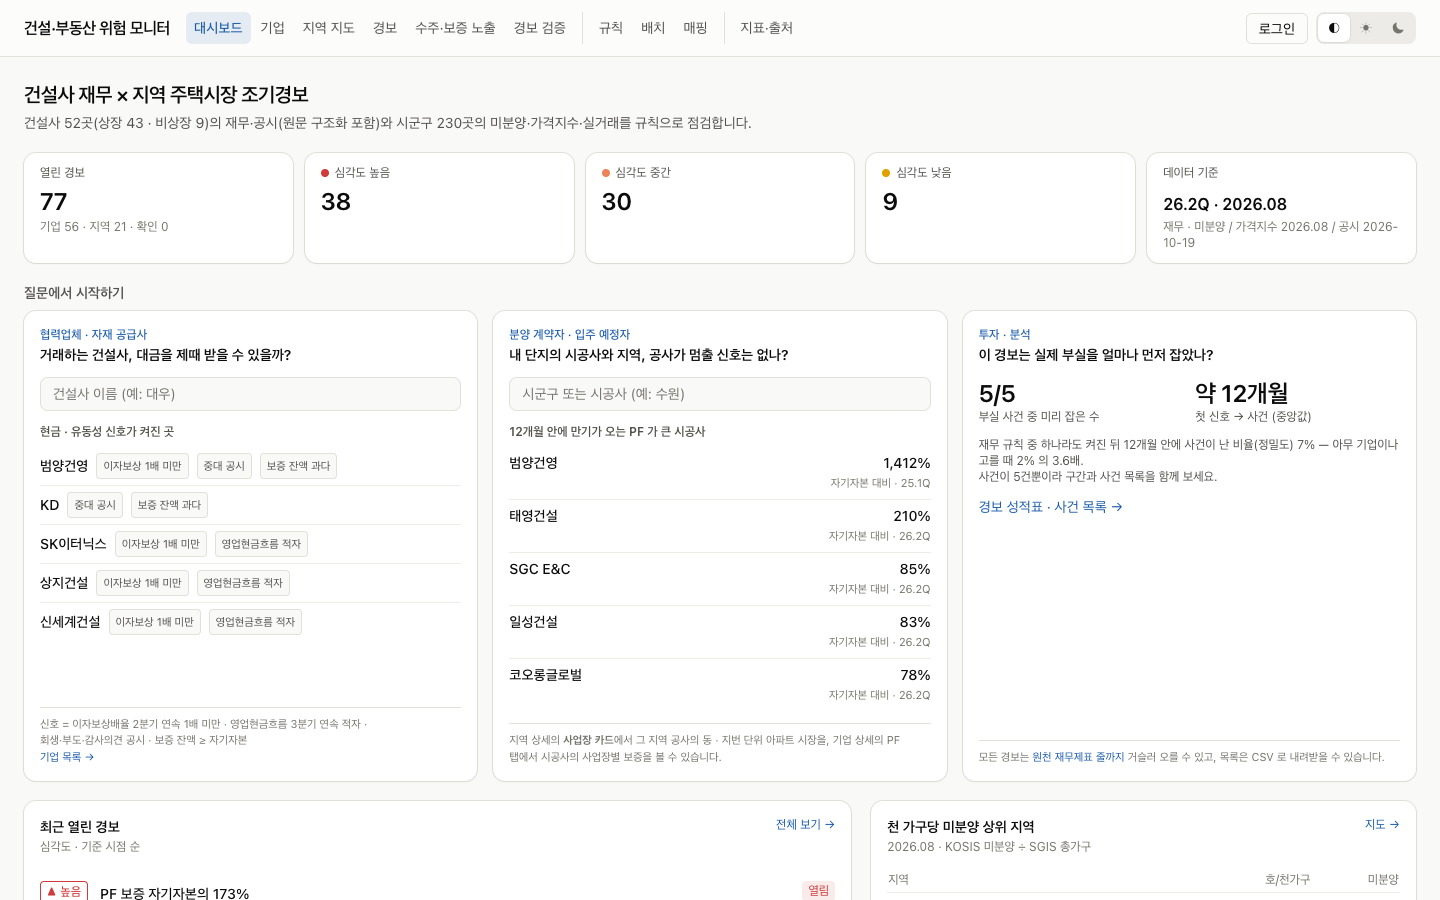
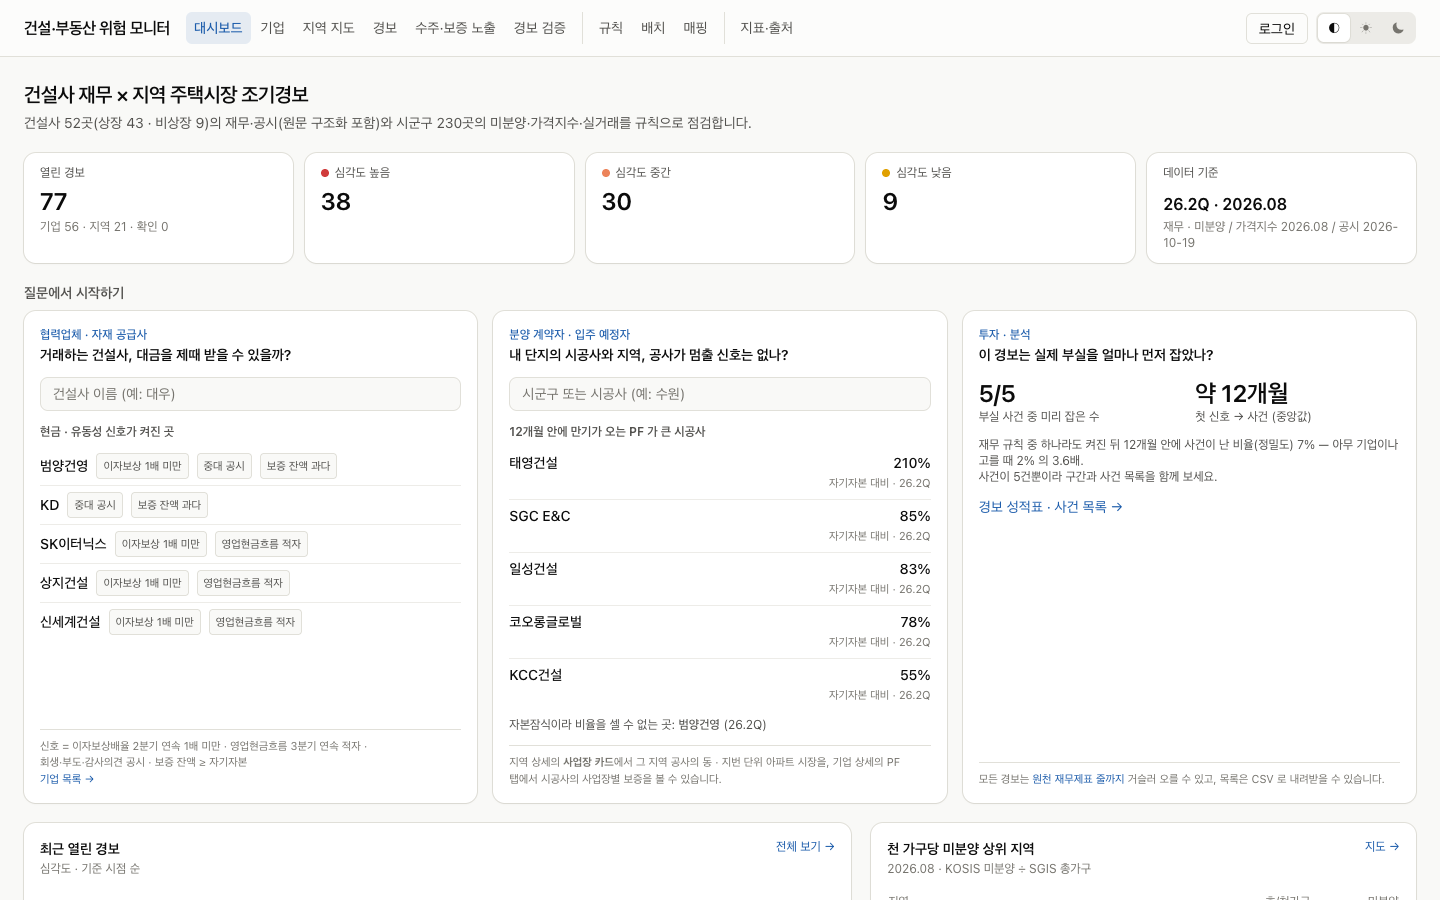
fix(insight): 대시보드 분양 계약자 카드 — 가장 최근 정기보고서의 값만, 자본잠식은 따로 (문제 221)
OK 만 남긴 뒤 회사마다 최신 분기를 골라, 2025Q2 부터 자본잠식인 범양건영의 2025Q1 1,412% 가
맨 위에 보였음. PF 를 읽은 가장 최근 정기보고서(dart.pf_report)의 분기를 먼저 고르고 그 분기가
OK 일 때만 순위에 넣음. NEG_EQUITY 는 personas.buyerNegEquity 로 순위 밖에 따로(사용자 결정).
DashboardIT 회귀 테스트(수정 전 실패) · VERIFICATION 221 · README 숫자 · 대시보드 캡처.

diff --git a/web/components/PersonaEntry.tsx b/web/components/PersonaEntry.tsx
@@ -57,6 +57,12 @@ export default function PersonaEntry({ p }: { p: Personas }) {
                     <span className="block text-[11px] text-muted">자기자본 대비 · {pk(b.periodKey)}</span></span>
                 </li>))}</ul>
             )}
+            {(p.buyerNegEquity ?? []).length > 0 && (
+              <p className="mt-1.5 text-xs text-ink2">자본잠식이라 비율을 셀 수 없는 곳:{" "}
+                <PhraseList items={(p.buyerNegEquity ?? []).map((n) => (
+                  <span key={n.corpCode}><Link href={`/companies/${n.corpCode}?tab=filings`} className="font-medium hover:underline">{n.corpName}</Link> ({pk(n.periodKey)})</span>
+                ))} /></p>
+            )}
           </div>
         </Persona>
 

diff --git a/web/lib/api/types.ts b/web/lib/api/types.ts
@@ -192,6 +192,8 @@ export type Scorecard = {
 export type Personas = {
   supplier: { corpCode: string; corpName: string; rules: string[]; sevRank: number }[];
   buyer: { corpCode: string; corpName: string; periodKey: string; due12mToEquityPct?: number; guaranteeToEquityPct?: number }[];
+  /** 가장 최근 정기보고서가 자본잠식이라 비율을 셀 수 없는 시공사 */
+  buyerNegEquity?: { corpCode: string; corpName: string; periodKey: string }[];
   investor?: { horizonMonths: number; observedFrom: string; observedTo: string; events: number; caught: number; medianLeadDays?: number; precision?: number; baseRate?: number; lift?: number };
 };
 export type SearchHit = { key: string; name: string; sub?: string };

diff --git a/app/src/main/java/com/buildrisk/radar/insight/app/DashboardService.java b/app/src/main/java/com/buildrisk/radar/insight/app/DashboardService.java
@@ -95,11 +95,28 @@ public class DashboardService {
     public record ScoreSummary(int horizonMonths, String observedFrom, String observedTo, int events, int caught,
                                Integer medianLeadDays, Double precision, Double baseRate, Double lift) {}
 
-    public record Personas(List<SupplierSignal> supplier, List<BuilderPf> buyer, ScoreSummary investor) {}
+    /** 가장 최근 정기보고서가 자본잠식이라 12개월 내 만기 PF / 자기자본을 셀 수 없는 시공사 */
+    public record BuilderNegEquity(String corpCode, String corpName, String periodKey) {}
+
+    public record Personas(List<SupplierSignal> supplier, List<BuilderPf> buyer, List<BuilderNegEquity> buyerNegEquity,
+                           ScoreSummary investor) {}
+
+    /**
+     * 기업마다 가장 최근 정기보고서(PF 를 읽은 보고서 — 상태와 관계없이)의 12개월 내 만기 PF / 자기자본. 그 분기가 OK 가 아니면
+     * (자본잠식 · 표준 서식 아님 · 만기 구간 모름) 옛 분기 값으로 메우지 않음 — 전에는 OK 만 남긴 뒤 최신을 골라 자본잠식 기업의
+     * 옛 분기 비율이 맨 위에 보였음 (VERIFICATION 221)
+     */
+    static final String LATEST_PF_DUE = """
+            WITH r AS (SELECT corp_code, max(period_key) AS period_key FROM dart.pf_report GROUP BY corp_code),
+            d AS (SELECT m.corp_code, m.period_key, m.value, m.status
+                    FROM r JOIN risk.company_metric m ON m.corp_code = r.corp_code AND m.period_key = r.period_key
+                   WHERE m.metric_code = 'PF_DUE_12M_TO_EQUITY')
+            """;
 
     /**
      * 사용자별 진입점 — 같은 데이터를 질문별로 모음 (새 계산 없음).
-     *   협력업체: 현금 · 유동성 규칙의 열린 경보가 겹치는 기업 · 분양 계약자: 시공사의 12개월 내 만기 PF / 자기자본(가장 최근 정기보고서)
+     *   협력업체: 현금 · 유동성 규칙의 열린 경보가 겹치는 기업 · 분양 계약자: 시공사의 12개월 내 만기 PF / 자기자본(가장 최근 정기보고서),
+     *   그 보고서가 자본잠식이라 비율이 없는 시공사는 순위 밖에 따로
      *   투자 · 분석: 경보 성적표 12개월의 '재무 규칙 중 하나라도' 요약 (성적표 API 와 같은 캐시)
      */
     Personas personas() {
@@ -113,21 +130,24 @@ public class DashboardService {
                 .param("rules", SUPPLIER_RULES)
                 .query((rs, i) -> new SupplierSignal(rs.getString(1), rs.getString(2),
                         Arrays.asList((String[]) rs.getArray(3).getArray()), rs.getInt(4))).list();
-        List<BuilderPf> buyer = jdbc.sql("""
-                WITH d AS (SELECT DISTINCT ON (corp_code) corp_code, period_key, value FROM risk.company_metric
-                            WHERE metric_code = 'PF_DUE_12M_TO_EQUITY' AND status = 'OK' ORDER BY corp_code, period_key DESC)
+        List<BuilderPf> buyer = jdbc.sql(LATEST_PF_DUE + """
                 SELECT d.corp_code, c.corp_name, d.period_key, d.value, g.value
                   FROM d JOIN ref.company c ON c.corp_code = d.corp_code
                   LEFT JOIN risk.company_metric g ON g.corp_code = d.corp_code AND g.period_key = d.period_key
                        AND g.metric_code = 'PF_GUARANTEE_TO_EQUITY' AND g.status = 'OK'
-                 WHERE c.is_target ORDER BY d.value DESC, c.corp_name LIMIT 5""")
+                 WHERE c.is_target AND d.status = 'OK' ORDER BY d.value DESC, c.corp_name LIMIT 5""")
                 .query((rs, i) -> new BuilderPf(rs.getString(1), rs.getString(2), rs.getString(3), rs.getBigDecimal(4),
                         rs.getBigDecimal(5))).list();
+        List<BuilderNegEquity> buyerNegEquity = jdbc.sql(LATEST_PF_DUE + """
+                SELECT d.corp_code, c.corp_name, d.period_key
+                  FROM d JOIN ref.company c ON c.corp_code = d.corp_code
+                 WHERE c.is_target AND d.status = 'NEG_EQUITY' ORDER BY c.corp_name""")
+                .query((rs, i) -> new BuilderNegEquity(rs.getString(1), rs.getString(2), rs.getString(3))).list();
         var sc = cache.get(ScorecardService.cacheKey(12), Duration.ofMinutes(30), ScorecardService.Response.class, () -> scorecard.run(12));
         ScoreSummary investor = sc.rules().stream().filter(r -> Scorecard.ANY.equals(r.ruleCode())).findFirst()
                 .map(r -> new ScoreSummary(sc.horizonMonths(), sc.observedFrom(), sc.observedTo(), r.events(), r.caught(),
                         r.medianLeadDays(), r.precision(), sc.baseRate(), r.lift()))
                 .orElse(null);
-        return new Personas(supplier, buyer, investor);
+        return new Personas(supplier, buyer, buyerNegEquity, investor);
     }
 }

diff --git a/app/src/test/java/com/buildrisk/radar/insight/api/DashboardIT.java b/app/src/test/java/com/buildrisk/radar/insight/api/DashboardIT.java
@@ -40,6 +40,9 @@ class DashboardIT extends IntegrationTest {
         alert("R-C01", "00000963", "MEDIUM");                  // 현금 · 유동성 규칙이 아님 → 협력업체 목록에서 빠짐
         run = UUID.randomUUID();
         jdbc.update("INSERT INTO ops.calc_run (calc_run_id, kind) VALUES (?, 'METRIC')", run);
+        report("00000961", "2025Q4", "PARSED");
+        report("00000961", "2026Q2", "PARSED");
+        report("00000962", "2026Q2", "PARSED");
         metric("00000961", "2025Q4", "PF_DUE_12M_TO_EQUITY", "120");   // 옛 분기 — 가장 최근 분기만 씀
         metric("00000961", "2026Q2", "PF_DUE_12M_TO_EQUITY", "85");
         metric("00000961", "2026Q2", "PF_GUARANTEE_TO_EQUITY", "70");
@@ -57,10 +60,19 @@ class DashboardIT extends IntegrationTest {
                 VALUES (?, 1, 'COMPANY', ?, '2026Q2', ?, '제목', '내용', '{"condition":"…"}')""", rule, corp, severity);
     }
 
-    private void metric(String corp, String pk, String code, String value) {
+    private void metric(String corp, String pk, String code, String value) { metric(corp, pk, code, value, "OK"); }
+
+    private void metric(String corp, String pk, String code, String value, String status) {
         jdbc.update("""
                 INSERT INTO risk.company_metric (corp_code, period_key, metric_code, value, status, calc_run_id)
-                VALUES (?, ?, ?, ?, 'OK', ?)""", corp, pk, code, new BigDecimal(value), run);
+                VALUES (?, ?, ?, ?, ?, ?)""", corp, pk, code, value == null ? null : new BigDecimal(value), status, run);
+    }
+
+    /** PF 를 읽은 정기보고서 — 접수번호는 기업 + 분기로 만듦(14자) */
+    private void report(String corp, String pk, String status) {
+        jdbc.update("""
+                INSERT INTO dart.pf_report (rcept_no, corp_code, period_key, rcept_dt, report_nm, status, parser_version)
+                VALUES (?, ?, ?, '2026-08-14', '반기보고서', ?, 15)""", corp + pk, corp, pk, status);
     }
 
     @Test
@@ -77,6 +89,30 @@ class DashboardIT extends IntegrationTest {
                 .andExpect(jsonPath("$.personas.buyer[0].guaranteeToEquityPct").value(70))
                 .andExpect(jsonPath("$.personas.buyer[1].due12mToEquityPct").value(40))
                 .andExpect(jsonPath("$.personas.investor.horizonMonths").value(12));
+    }
+
+    @Test
+    void 분양_계약자_카드는_가장_최근_정기보고서의_값만_쓴다() throws Exception {
+        // 최신 분기가 자본잠식(NEG_EQUITY) — 전에는 OK 만 남긴 뒤 최신을 골라 옛 분기 1,412% 가 맨 위에 보였음 (VERIFICATION 221)
+        company("00000964", "잠식건설");
+        report("00000964", "2025Q1", "PARSED");
+        report("00000964", "2026Q2", "PARSED");
+        metric("00000964", "2025Q1", "PF_DUE_12M_TO_EQUITY", "1412");
+        metric("00000964", "2026Q2", "PF_DUE_12M_TO_EQUITY", null, "NEG_EQUITY");
+        // 최신 정기보고서의 PF 표가 표준 서식이 아님(NO_STANDARD) — 그 분기 지표 행이 없어도 옛 분기 값을 끌어오지 않음
+        company("00000965", "서식건설");
+        report("00000965", "2025Q3", "PARSED");
+        report("00000965", "2026Q2", "NO_STANDARD");
+        metric("00000965", "2025Q3", "PF_DUE_12M_TO_EQUITY", "300");
+        cache.invalidateAll();
+        mvc.perform(get("/api/v1/dashboard")).andExpect(status().isOk())
+                .andExpect(jsonPath("$.personas.buyer", hasSize(2)))
+                .andExpect(jsonPath("$.personas.buyer[*].corpName", contains("유동건설", "보증건설")))
+                .andExpect(jsonPath("$.personas.buyer[*].periodKey", contains("2026Q2", "2026Q2")))
+                // 자본잠식은 순위 밖에 따로 (사용자 결정) — 표준 서식이 아닌 곳은 비율도 상태도 모르므로 어디에도 없음
+                .andExpect(jsonPath("$.personas.buyerNegEquity", hasSize(1)))
+                .andExpect(jsonPath("$.personas.buyerNegEquity[0].corpName").value("잠식건설"))
+                .andExpect(jsonPath("$.personas.buyerNegEquity[0].periodKey").value("2026Q2"));
     }
 
     @Test
